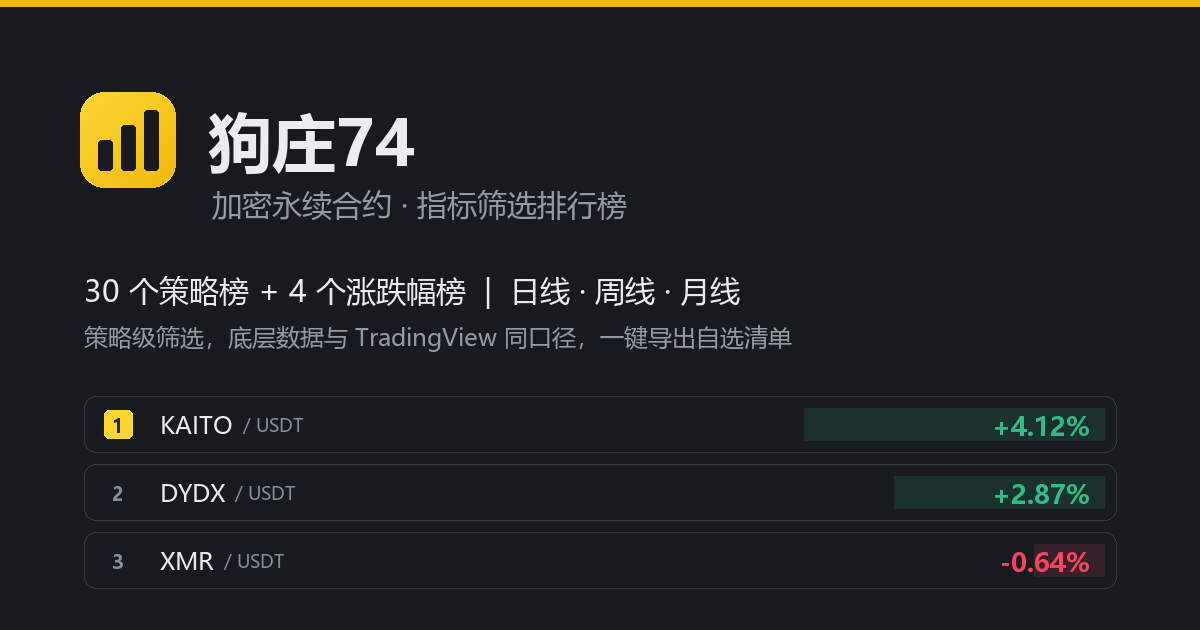
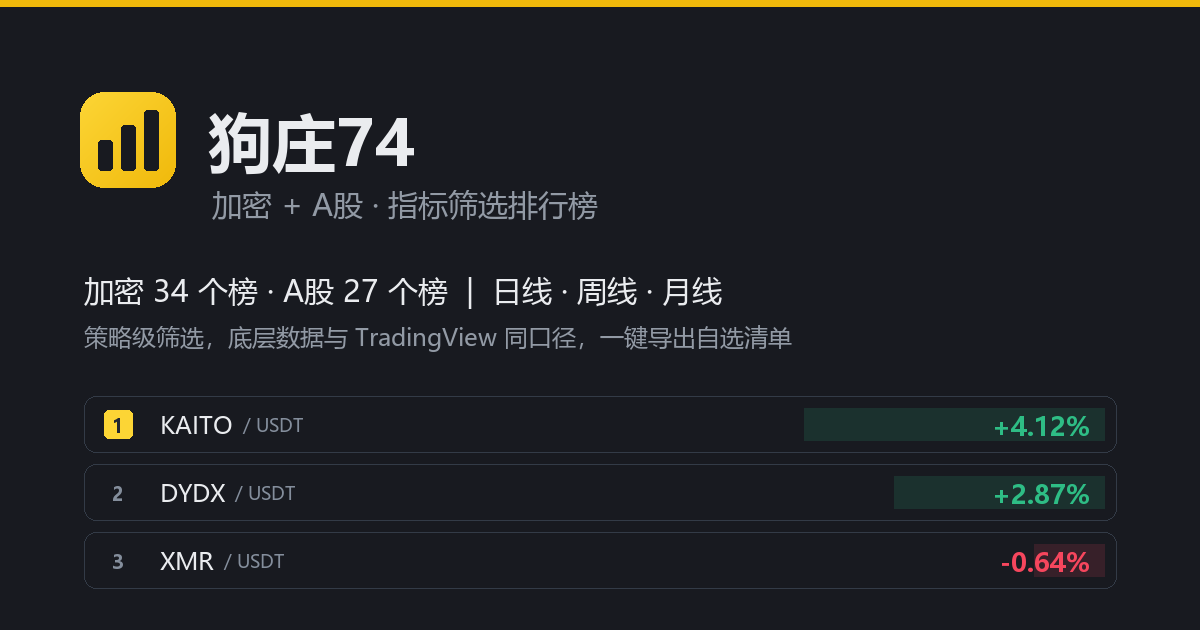
A股 恢复：资产切换与 A股 胶囊重新显示、A股 两组按加密 rail 逐张生成（ASHARE_ENABLED = true）；标题 / 分享卡片 / FAQ 加回 A股；监控加回 A股 两项
- A股 榜单与加密 rail 顺序相同，不再有 A股 独有的榜
- FAQ「精选名单」六张 → 七张
- og.png 重出；script.js?v=540、style.css?v=150

Changed region(s): [[0.0617, 0.4222, 0.6167, 0.4825], [0.2158, 0.3016, 0.5242, 0.3619]]

diff --git a/script.js b/script.js
@@ -497,7 +497,6 @@ const TABS_CONFIG = {
     //     行由后端统一产出，各榜只差筛选条件 ===
     // 轴是描述值、不是判据镜像：改判据不动轴，也别按判据增删轴。⚠ 尤其别为布尔判据加轴 —— 布尔值排不了序、后端也不发 ⇒ 幽灵轴。
     // key ＝ 公开编号（同 TAB_GROUPS）；新 key 别以后端 RETIRED_KEY_PREFIXES 里的前缀开头，否则后端自愈会静默删掉整张榜。
-    // s23–s30 加密不单独出榜，条目留着只给 A股 镜像用（ASHARE_ONLY_TABS / ASHARE_ONLY_SRC）。
     s01: { sorts: cryptoStrategySorts, subFormat: (v, sf) => axesSub(v, sf, "日成交额") },
     s02: { sorts: cryptoStrategySorts, subFormat: (v, sf) => axesSub(v, sf, "日成交额") },
     s03: { sorts: cryptoStrategySorts, subFormat: (v, sf) => axesSub(v, sf, "日成交额") },
@@ -510,14 +509,6 @@ const TABS_CONFIG = {
     s14: { sorts: monthlyStrategySorts, subFormat: (v, sf) => axesSub(v, sf, "日成交额") },
     s18: { sorts: cryptoStrategySorts, subFormat: (v, sf) => axesSub(v, sf, "日成交额") },
     s21: { sorts: monthlyStrategySorts, subFormat: (v, sf) => axesSub(v, sf, "日成交额") },
-    s23: { sorts: cryptoStrategySorts, subFormat: (v, sf) => axesSub(v, sf, "日成交额") },
-    s24: { sorts: day2StrategySorts, subFormat: (v, sf) => axesSub(v, sf, "日成交额") },
-    s25: { sorts: day3StrategySorts, subFormat: (v, sf) => axesSub(v, sf, "日成交额") },
-    s26: { sorts: day4StrategySorts, subFormat: (v, sf) => axesSub(v, sf, "日成交额") },
-    s27: { sorts: day5StrategySorts, subFormat: (v, sf) => axesSub(v, sf, "日成交额") },
-    s28: { sorts: day6StrategySorts, subFormat: (v, sf) => axesSub(v, sf, "日成交额") },
-    s29: { sorts: day7StrategySorts, subFormat: (v, sf) => axesSub(v, sf, "日成交额") },
-    s30: { sorts: day8StrategySorts, subFormat: (v, sf) => axesSub(v, sf, "日成交额") },
     s32: { sorts: cryptoStrategySorts, subFormat: (v, sf) => axesSub(v, sf, "日成交额") },
     s33: { sorts: monthlyStrategySorts, subFormat: (v, sf) => axesSub(v, sf, "日成交额") },
     s34: { sorts: monthlyStrategySorts, subFormat: (v, sf) => axesSub(v, sf, "日成交额") },
@@ -644,31 +635,7 @@ const TAB_GROUPS = [
               desc: "日线大方向刚刚由空转多、当天还触及一个关键价位的合约。只认转多那一天，每天换一批全新的合约，偶尔一个都没有。" },
         ],
     },
-    // A股「行情」「策略」两组不在这里写：由下方镜像块从加密组运行时生成
-    //   （前端要连同 TABS_CONFIG、CHANGE_PCT_TABS、资产分段控件与 A股 新鲜度胶囊一起加回）。
-];
-
-// 只给 A股 镜像用的八张：加密这边不单独列榜，A股 照常列。不进加密 rail / TAB_META；下方「A股 镜像」块按 after 把它们插回 A股 那两组里的位置。
-//   TABS_CONFIG 里的同名条目留着（镜像要用它的轴集与副行）。ASHARE_ONLY_TABS 必须与后端对应的集合一致（audit C）；
-//   audit / make_og 靠这个字面量与下面 `{ key: …, name: …` 写在同一行认出它们。
-const ASHARE_ONLY_TABS = new Set(["s23", "s24", "s25", "s26", "s27", "s28", "s29", "s30"]);
-const ASHARE_ONLY_SRC = [
-    { key: "s23", name: "日线强势转多·持有", tf: "日线", after: "s09",
-      desc: "日线由弱转强、而且转强那一刻动能很足时入选，之后只要大方向不破就一直留在榜上。" },
-    { key: "s24", name: "2日线强势转多·持有", tf: "2日线", after: "s11",
-      desc: "按 2 日K 看：由弱转强、而且转强那一刻动能很足时入选，之后只要大方向不破就一直留在榜上。" },
-    { key: "s25", name: "3日线强势转多·持有", tf: "3日线", after: "s24",
-      desc: "按 3 日K 看：由弱转强、而且转强那一刻动能很足时入选，之后只要大方向不破就一直留在榜上。" },
-    { key: "s26", name: "4日线强势转多·持有", tf: "4日线", after: "s25",
-      desc: "按 4 日K 看：由弱转强、而且转强那一刻动能很足时入选，之后只要大方向不破就一直留在榜上。" },
-    { key: "s27", name: "5日线强势转多·持有", tf: "5日线", after: "s26",
-      desc: "按 5 日K 看：由弱转强、而且转强那一刻动能很足时入选，之后只要大方向不破就一直留在榜上。" },
-    { key: "s28", name: "6日线强势转多·持有", tf: "6日线", after: "s27",
-      desc: "按 6 日K 看：由弱转强、而且转强那一刻动能很足时入选，之后只要大方向不破就一直留在榜上。" },
-    { key: "s29", name: "7日线强势转多·持有", tf: "7日线", after: "s28",
-      desc: "按 7 日K 看：由弱转强、而且转强那一刻动能很足时入选，之后只要大方向不破就一直留在榜上。" },
-    { key: "s30", name: "8日线强势转多·持有", tf: "8日线", after: "s29",
-      desc: "按 8 日K 看：由弱转强、而且转强那一刻动能很足时入选，之后只要大方向不破就一直留在榜上。" },
+    // A股「行情」「策略」两组不在这里写：由下方「A股 镜像」块从加密这几组运行时生成（ASHARE_ENABLED）。
 ];
 
 // tab key → {asset, tf, name, full, desc}：组的 asset / tf 下发到每个 tab（tab 自带 tf 优先），full 缺省用 name。
@@ -1139,8 +1106,8 @@ function noteHtml(desc) {
     return desc ? "<p>" + escapeHtml(desc).replace(NOTE_BREAK_RE, "。</p><p>") + "</p>" : "";
 }
 
-// === A股 镜像（2026-10-19 复活：站长「恢复A股的TAB，逻辑和加密同步一致」）===
-// A股 的榜 ＝ 加密现役榜逐张镜像：后端同一个 build_rankings 产出（判据只有一份），key ＝ ashareKey(加密 key)。这里按加密那几组自动生成「A股行情」「A股策略」两组
+// === A股 镜像（站长 10-19「恢复A股的TAB，逻辑和加密同步一致」、11-06「恢复A股，TAB对齐加密版块」）===
+// A股 的榜 ＝ 加密 rail 上的榜逐张镜像、顺序相同（没有 A股 独有的榜；10-22 ~ 10-26 那八张 A股 独留的 11-06 起不出）：后端同一个 build_rankings 产出（判据只有一份），key ＝ ashareKey(加密 key)。这里按加密那几组自动生成「A股行情」「A股策略」两组
 // （榜名 / 周期跟着加密走；说明 ＝ ASHARE_NOTE ＋ 加密那张说明的第一段判据；三张行情榜的说明单独写：涨跌幅口径不同）⇒ 改加密榜不用另改 A股。
 // 轴集 ＝ 加密那张去掉订单流（tushare 没有主动买卖数据，后端行上恒 null）。不镜像的加密榜（与后端 fetch_data.ASHARE_SKIP_TABS 必须一致，audit C 项在盯）：
 // 加密专属名单圈定的各张（A股 没有对应的名单）；后端那份另含几张加密这边不出的榜（前端用不到，audit C 只比有公开编号的）。A股 的 N 日K（2~8 日线、3日线）按交易日切：每年第一个交易日起每 N 个交易日一格
@@ -1148,7 +1115,6 @@ function noteHtml(desc) {
 // ⚠ 要放在 NOTE_BREAK_RE 之后、首次渲染之前：用它切加密说明的第一段，也要往 TAB_GROUPS / TAB_META / TABS_CONFIG / CHANGE_PCT_TABS 里补 A股 那几张。
 const ASHARE_SKIP_TABS = new Set(["s01", "s03", "s05", "s07", "s39", "s45", "s51"]);
 const ashareKey = k => "ashare" + k[0].toUpperCase() + k.slice(1);
-const ASHARE_ONLY_NOTE = "加密那边这一套已不展示；A股 这边照旧整张保留。";
 const ASHARE_NOTE = "这是加密同名榜的 A股 版。A股 这边有几处不同：日 K 一个交易日一根（北京时间 15:00 收盘），等当天数据发布（一般 16:00 前后）才换一批；周 K、月 K 以本周、本月最后一个交易日收盘为准；价格按前复权；涨跌幅按交易所口径、比的是上一根收盘；停牌的股票不入榜；没有订单流（A股 数据里没有主动买卖归边）。范围是沪深 A 股，不含北交所。A股 没有单独做回放：加密那张说明里的回放、命中数和表现都是加密市场的数字，这里只摘了判据。";
 const ASHARE_MARKET_DESC = {
     threeDayChange: "最新已收盘 3日K 的涨跌幅：这根 3日K 的收盘比上一根 3日K 的收盘（前复权；新股只有一根时比发行价）。A股 的 3日K 按交易日切：每年第一个交易日起每 3 个交易日一根，休市日不占格，年底那根可能不满 3 个——和 TradingView 一样；只认已收盘的那根，所以只在一根 3日K 的最后一个交易日收盘后换一批。没有任何筛选条件，全部沪深 A 股，主要用来看排序：排序条上全是 3日K 版本的轴，每行下面那行小字也只显示 3日K 的数。",
@@ -1185,24 +1151,18 @@ const ASHARE_AXIS_HINT = {
     monthlyDiPlus: "最新已收盘月K的+DI（DMI 14，对齐TV）：多方方向压力，0–100，一个月只更新一次；不足15个月显示「—」",
     athDistPct: "回到历史高点还要涨多少：上市以来全部日K的最高价（前复权、含影线）÷ 最新收盘 − 1。降序＝离高点最远；除权后的高点按前复权算，和行情软件的前复权图一致",
 };
-// A股 资产总开关（2026-10-26 站长「移除整个A股。等我需要恢复时再恢复。」⇒ false）：不生成「A股行情」「A股策略」两组、index.html 的资产切换与 A股 胶囊隐藏、
-//   抽屉里不出资产切换 ⇒ currentAsset 恒为加密（它由当前榜推出），A股 那包付费数据也就不会去拉。A股 的整套代码（下面的镜像块、口径说明、胶囊、付费包拉取、快照横幅）留作休眠件。
-//   恢复 ＝ 这里改回 true ＋ index.html 两处 display:none 拿掉 ＋ 标题 / FAQ 文案 ＋ 后端（RETIRED_KEY_PREFIXES 拿掉 ashare、启用 A股 任务，清单在 fetch_ashare.py 顶部）＋ check-freshness 的 A股 两段。
-const ASHARE_ENABLED = false;
+// A股 资产总开关（true ＝ 在役；站长 11-06「恢复A股，TAB对齐加密版块」）。false ＝ 不生成「A股行情」「A股策略」两组、抽屉里不出资产切换 ⇒ currentAsset 恒为加密、
+//   A股 那包付费数据也不会去拉；再退役 ＝ 这里改 false ＋ index.html 的资产切换 #assetSeg 与 A股 胶囊 #freshAshare 加 display:none ＋ 标题 / FAQ 文案 ＋ check-freshness 的 A股 两段
+//   ＋ 后端（清单在 fetch_ashare.py 顶部）。
+const ASHARE_ENABLED = true;
 let ASHARE_HOME_TAB = null;   // A股 默认落地 ＝ A股策略组第一张（加密置顶组里第一张有 A股 版的那张；置顶组第一张没有 A股 版），下面填
 if (ASHARE_ENABLED) {
     const src = TAB_GROUPS.filter(g => g.asset === "加密")
         .flatMap(g => g.tabs.map(t => ({ ...t, tf: t.tf || g.tf })))
         .filter(t => !ASHARE_SKIP_TABS.has(t.key) && TABS_CONFIG[t.key]);   // 漏配 TABS_CONFIG 的加密榜跳过：顶层这里一抛就整页白屏（只坏那一张才对）
-    // 只给 A股 的那几张按 after 插回原来的位置（anchor 找不到就排到最后）
-    for (const t of ASHARE_ONLY_SRC) {
-        if (!TABS_CONFIG[t.key]) continue;
-        const i = src.findIndex(x => x.key === t.after);
-        src.splice(i < 0 ? src.length : i + 1, 0, t);
-    }
     // 名字 / 说明跟着加密那张走（含解锁后的真名，见 tabMetaEntry）：说明 ＝ 加密那张说明的第一段 ＋ A股 说明；行情榜的说明单独写。
     const mirror = t => {
-        const tail = `${ASHARE_NOTE}${/^[2-8]日线$/.test(t.tf) ? ASHARE_ND_NOTE(t.tf[0]) : t.tf === "日线~月线" ? ASHARE_ND_NOTE("2、3") : ""}${ASHARE_ONLY_TABS.has(t.key) ? ASHARE_ONLY_NOTE : ""}`;
+        const tail = `${ASHARE_NOTE}${/^[2-8]日线$/.test(t.tf) ? ASHARE_ND_NOTE(t.tf[0]) : t.tf === "日线~月线" ? ASHARE_ND_NOTE("2、3") : ""}`;
         return { key: ashareKey(t.key), src: t.key, name: t.name, full: t.full, tf: t.tf, hourly: t.hourly, desc: t.desc,
             descOf: d => ASHARE_MARKET_DESC[t.key] || `判据和加密同名榜一字不差：${ashareCriteria(d)}。${tail}` };
     };
@@ -2737,7 +2697,7 @@ if (searchBoxEl) {
 // === 初始化 ===
 const LS_TAB = "bishuju_last_tab";
 const savedTab = safeStore.get("localStorage", LS_TAB);
-// 另判 TAB_META：TABS_CONFIG 里留着只给 A股 镜像用的加密 key（ASHARE_ONLY_TABS），上次停在并掉的榜上的回访者别切到一张不存在的榜。
+// 另判 TAB_META：上次停在已撤下的榜上（或 A股 关着时停在 A股 榜上）的回访者别切到一张不存在的榜。
 if (savedTab && TABS_CONFIG[savedTab] && TAB_META[savedTab] && savedTab !== currentTab) switchTab(savedTab);
 // ⚠ 无条件把 .app 的 data-asset 同步到 currentAsset：index.html 写死了一个值，而上面那行不一定调 switchTab
 // （无 savedTab 或它就是默认 tab）⇒ 默认资产与写死值不同时 CSS 作用域会错（A股 红绿颠倒）。别依赖 switchTab 的副作用。

diff --git a/index.html b/index.html
@@ -10,10 +10,10 @@
          改配色时这两处一起改，否则地址栏/状态栏颜色会跟页面顶部对不上。
          ⚠ 同一对值另有两处副本:manifest.webmanifest 与 script.js 的 applyTheme()，共四处;独立页 404.html 另有一对(深色默认 + 系统偏好浅色)。 -->
     <script>try{if(localStorage.getItem("bishuju_theme")==="light"){document.documentElement.dataset.theme="light";document.getElementById("themeColorMeta").content="#ffffff";}}catch(e){}</script>
-    <title>狗庄74 — 加密永续合约指标筛选排行榜</title>
+    <title>狗庄74 — 加密 + A股 指标筛选排行榜</title>
     <!-- 下面 meta description 与 FAQ 里的榜单说法（含「哪些免费」那句、榜数）跟 script.js 的 TAB_GROUPS 一致：增删榜时一起改。
          这里与各榜说明一样，只写风格名、不写具体指标与判据。 -->
-    <meta name="description" content="加密永续合约的指标筛选排行榜：三十张策略榜按日线、周线、月线收盘自动更新，外加日线 / 3日线 / 周线 / 月线四张全市场涨跌幅榜（只看排序）。一键导出自选清单，另附永续合约全市场情绪概览。">
+    <meta name="description" content="加密永续合约与 A 股的指标筛选排行榜：三十张策略榜按日线、周线、月线收盘自动更新，外加日线 / 3日线 / 周线 / 月线四张全市场涨跌幅榜（只看排序）；A 股另有一套同名榜。一键导出自选清单，另附永续合约全市场情绪概览。">
     <link rel="canonical" href="https://gouzhuang748.com/">
     <link rel="icon" type="image/svg+xml" href="favicon.svg">
     <!-- PWA 基础:加主屏 = 全屏 app 体验。刻意不加 Service Worker——loadData 的
@@ -31,23 +31,23 @@
     <meta property="og:type" content="website">
     <meta property="og:site_name" content="狗庄74">
     <meta property="og:locale" content="zh_CN">
-    <meta property="og:title" content="狗庄74 — 加密永续合约指标筛选排行榜">
-    <meta property="og:description" content="加密永续合约指标筛选排行榜，随收盘自动更新。">
+    <meta property="og:title" content="狗庄74 — 加密 + A股 指标筛选排行榜">
+    <meta property="og:description" content="指标筛选排行榜，覆盖加密永续合约与 A 股两个市场，随收盘自动更新。">
     <meta property="og:image" content="https://gouzhuang748.com/og.png">
     <meta property="og:image:width" content="1200">
     <meta property="og:image:height" content="630">
-    <meta property="og:image:alt" content="狗庄74 — 加密永续合约指标筛选排行榜">
+    <meta property="og:image:alt" content="狗庄74 — 加密 + A股 指标筛选排行榜">
     <meta property="og:url" content="https://gouzhuang748.com/">
     <meta name="twitter:card" content="summary_large_image">
-    <meta name="twitter:title" content="狗庄74 — 加密永续合约指标筛选排行榜">
-    <meta name="twitter:description" content="加密永续合约指标筛选排行榜，随收盘自动更新。">
+    <meta name="twitter:title" content="狗庄74 — 加密 + A股 指标筛选排行榜">
+    <meta name="twitter:description" content="指标筛选排行榜，覆盖加密永续合约与 A 股两个市场，随收盘自动更新。">
     <meta name="twitter:image" content="https://gouzhuang748.com/og.png">
-    <meta name="twitter:image:alt" content="狗庄74 — 加密永续合约指标筛选排行榜">
+    <meta name="twitter:image:alt" content="狗庄74 — 加密 + A股 指标筛选排行榜">
 
     <!-- 自托管 IBM Plex Sans 可变字体(Latin 子集);预加载避免首屏 FOUT。CJK 走系统栈不预载。
          Geist Mono 只剩通行证输入框在用 ⇒ 不预加载(预加载了首屏却用不上，浏览器会报警告) -->
     <link rel="preload" as="font" type="font/woff2" href="fonts/ibm-plex-sans-latin-wght-normal.woff2" crossorigin>
-    <link rel="stylesheet" href="style.css?v=149">
+    <link rel="stylesheet" href="style.css?v=150">
 </head>
 <body>
 <!-- is-hero：榜单排在主栏最上面（站长 10-18 定的版式，script.js HERO_LAYOUT）；is-single：只剩一张榜时另外不出 rail（SINGLE_BOARD）。
@@ -78,15 +78,15 @@
                 </svg>
                 <div class="brand__text">
                     <div class="brand__name">狗庄74 <span class="brand__latin">gouzhuang748.com</span></div>
-                    <div class="brand__tag">加密永续合约 · 策略筛选排行</div>
+                    <div class="brand__tag">加密 + A股 · 策略筛选排行</div>
                 </div>
             </div>
             <div class="topbar__tools">
-                <!-- 新鲜度胶囊（加密 / A股 各一个）：JS 填内容；当前资产那个亮、另一个 .is-dim（移动端 CSS 只显示亮的那个）。A股 那个 2026-10-26 起隐藏（script.js ASHARE_ENABLED）、DOM 留着。
+                <!-- 新鲜度胶囊（加密 / A股 各一个）：JS 填内容；当前资产那个亮、另一个 .is-dim（移动端 CSS 只显示亮的那个）。A股 退役时加 display:none 隐藏（script.js ASHARE_ENABLED）、DOM 留着。
                      初始 .is-dim 要与 script.js 的默认落地资产（加密）一致；增删胶囊时 renderUpdatePill 与点击监听同批改
                      （DOM 与 JS 对不上会让整个胶囊渲染静默 return）。 -->
                 <button type="button" class="fresh" id="freshCrypto" title="查看加密榜单"><span class="fresh__dot"></span><span class="fresh__asset crypto">加密</span><span id="freshCryptoTxt">数据加载中…</span></button>
-                <button type="button" class="fresh is-dim" id="freshAshare" title="查看A股榜单" style="display:none"><span class="fresh__dot"></span><span class="fresh__asset ashare">A股</span><span id="freshAshareTxt">—</span></button>
+                <button type="button" class="fresh is-dim" id="freshAshare" title="查看A股榜单"><span class="fresh__dot"></span><span class="fresh__asset ashare">A股</span><span id="freshAshareTxt">—</span></button>
                 <span id="licenseStatus"><span class="lic-badge lic-off">未解锁</span></span>
                 <button id="licenseBtn" class="lic-btn-mini">输入通行证</button>
                 <button class="theme-btn" id="themeBtn" aria-label="切换亮暗主题" title="切换亮/暗"></button>
@@ -106,9 +106,9 @@
         <div class="layout">
 
             <aside class="rail" id="rail">
-                <!-- 资产分段控件（2026-10-26 起只剩加密 ⇒ 隐藏，见 script.js ASHARE_ENABLED）。⚠ script.js 的抽屉里有一份同款结构的副本（drawerBody 的 innerHTML），增删资产时两处必须一起改；
+                <!-- 资产分段控件（A股 退役时加 display:none 隐藏，见 script.js ASHARE_ENABLED）。⚠ script.js 的抽屉里有一份同款结构的副本（drawerBody 的 innerHTML），增删资产时两处必须一起改；
                      初始 is-active 要与默认落地资产（加密）一致。 -->
-                <div class="asset-seg" id="assetSeg" style="display:none">
+                <div class="asset-seg" id="assetSeg">
                     <button class="asset-seg__opt is-active" data-k="crypto"><span class="asset-seg__dot"></span>加密</button>
                     <button class="asset-seg__opt" data-k="ashare"><span class="asset-seg__dot"></span>A股</button>
                 </div>
@@ -198,15 +198,18 @@
     <h3 id="faqTitle">常见问题</h3>
     <div class="faq">
         <h4>数据多久更新一次？</h4>
-        <p>每小时自动抓取一次（整点后约 2 分钟），覆盖全部加密 USDT 永续合约，日线以 UTC 00:00 收盘为准——日线榜因此每天 00:00 UTC（北京时间 08:00）收盘后才换一批，3日线涨跌幅榜在那根 3日K 收盘那天、周线榜每周一、月线榜每月 1 号同一时刻换（带「精选名单」的六张另外每个整点重新圈定名单，成员整点就可能变）；市场概览条则随每小时的抓取刷新。</p>
+        <p>加密：每小时自动抓取一次（整点后约 2 分钟），覆盖全部加密 USDT 永续合约，日线以 UTC 00:00 收盘为准——日线榜因此每天 00:00 UTC（北京时间 08:00）收盘后才换一批，3日线涨跌幅榜在那根 3日K 收盘那天、周线榜每周一、月线榜每月 1 号同一时刻换（带「精选名单」的七张另外每个整点重新圈定名单，成员整点就可能变）；市场概览条则随每小时的抓取刷新。</p>
+        <p>A股：每个交易日收盘后（北京时间 15:05 起，等当天数据发布，一般 16:00 前后）更新一次，覆盖全部沪深 A 股（不含北交所，停牌的不入榜）；周末和节假日停在上一个交易日。</p>
         <h4>哪些免费、哪些收费？</h4>
         <p><b>免费的是市场概览条</b>（全市场情绪、涨跌家数、总成交额、资金费率），永久免费、不需要通行证；每张榜这一期命中了多少个标的也公开显示，具体是哪些标的需要通行证。</p>
         <p><b>榜单本身需要购买通行证解锁</b>——三十个策略榜与四张行情榜（日线 / 3日线 / 周线 / 月线涨跌幅，全市场不筛选）的完整名单、多轴排序和每张榜的详细说明，是本站的核心价值。无需注册账号，付款用加密货币（OxaPay），到账后通行证自动发到邮箱。</p>
+        <p>同一张通行证也解锁 <b>A股</b> 那一套：加密各榜的 A股 版（判据逐张相同、同一份代码、顺序和加密一样），包括日线 / 3日线 / 周线 / 月线四张涨跌幅榜；带「精选名单」的七张（A股 没有对应的名单）没有。A股 的 3日线按交易日切（每年第一个交易日起每 3 个交易日一根，和 TradingView 一样）。</p>
         <h4>每个榜到底在筛什么？</h4>
         <p>解锁后切到任一榜单，表格上方那行说明写着<b>这个榜在找什么样的行情</b>。「加密行情」组的四张涨跌幅榜（日线 / 3日线 / 周线 / 月线）没有任何筛选条件，全部合约都在，主要用来看排序：每张的排序条只有本周期自己的轴（比如 3日线那张全是 3日K 的涨跌幅、成交额、RSI……）。策略榜有的只认刚发生的那一根（换得快，有些日子一个都没有是正常的），有的是条件不破就一直在（同一个标的会连着好几期出现）。导航上的命中数不解锁也能看到。</p>
+        <p>「A股行情」「A股策略」两组是加密同名榜的 A股 版：判据和加密那张是同一份代码、榜名也一样；不同的只是数据（沪深 A 股前复权日 K，周 / 月 K 由日 K 拼）、涨跌幅口径（比上一根收盘）和换批时间（每个交易日收盘后）。</p>
         <p>底层指标与 TradingView 同口径，榜上每个标的都可以点开图表自行复核。</p>
         <h4>涨跌颜色是怎么定的？</h4>
-        <p>榜单与市场概览条都遵循国际习惯：<b>涨绿跌红</b>。</p>
+        <p>加密榜单遵循国际习惯：<b>涨绿跌红</b>（如市场概览条）；A股榜单遵循中国市场习惯：<b>涨红跌绿</b>。切换资产时颜色语义自动跟随。</p>
     </div>
     <div class="modal-actions">
         <span class="spacer"></span>
@@ -277,6 +280,6 @@
     <button type="button" class="modal-x dialog-close" data-dialog="purchaseDialog" aria-label="关闭">✕</button>
 </dialog>
 
-<script src="script.js?v=539"></script>
+<script src="script.js?v=540"></script>
 </body>
 </html>
